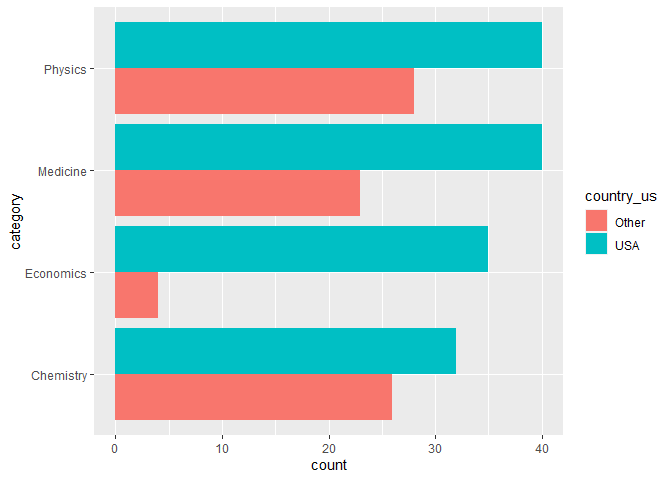
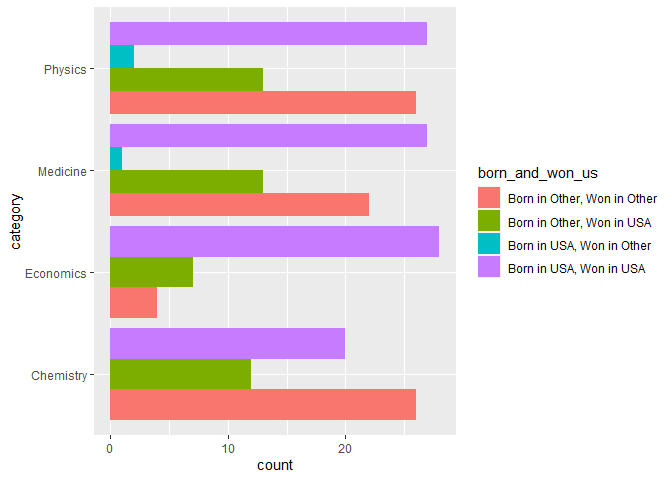
Added answer to Ex 6 and added finishing touches

diff --git a/lab-03.md b/lab-03.md
@@ -121,8 +121,8 @@ geom_bar(stat="count", position=position_dodge()) +
 ![](lab-03_files/figure-gfm/barplot-1.png)<!-- -->
 
 Winners of science prizes were much more likely to be in the US than
-other countries, so I would say that Buzzfeed’s article headline is
-seems accurate.
+other countries, so I would say that Buzzfeed’s article headline seems
+accurate.
 
 ### Exercise 4
 
@@ -149,13 +149,58 @@ were born in the US.
 ### Exercise 5
 
 ``` r
-ggplot(data=nobel_living_science, aes(x=category, fill=country_us)) +
-geom_bar(stat="count", position=position_dodge()) +
+nobel_living_science <- nobel_living_science %>%  
+  mutate(
+    born_and_won_us = case_when(born_country_us == "Other" & country_us == "Other" ~ "Born in Other, Won in Other", #condition 1
+                         born_country_us == "Other" & country_us == "USA" ~ "Born in Other, Won in USA", #condition 2
+                         born_country_us == "USA" & country_us == "Other" ~ "Born in USA, Won in Other", #condition 3
+                         born_country_us == "USA" & country_us == "USA" ~ "Born in USA, Won in USA")) #condition4
+
+nobel_living_science %>%
+  count(born_and_won_us)
+```
+
+    ## # A tibble: 4 x 2
+    ##   born_and_won_us                 n
+    ## * <chr>                       <int>
+    ## 1 Born in Other, Won in Other    78
+    ## 2 Born in Other, Won in USA      45
+    ## 3 Born in USA, Won in Other       3
+    ## 4 Born in USA, Won in USA       102
+
+``` r
+ggplot(data=nobel_living_science, aes(x=category, group=born_and_won_us, fill=born_and_won_us)) +
+geom_bar(stat="count", position="dodge") +
   coord_flip()
 ```
 
-![](lab-03_files/figure-gfm/barplot2-1.png)<!-- -->
+![](lab-03_files/figure-gfm/barplot2-1.png)<!-- --> Buzzfeed’s claim
+definitely seems accurate based on this visualization because there are
+many people born in other countries who immigrated to the USA and won
+the nobel prize, thus contributing to American science.
 
 ### Exercise 6
 
-…
+``` r
+nobel_living_science %>% 
+  filter(born_and_won_us=="Born in Other, Won in USA") %>%
+  count(born_country, sort=TRUE)
+```
+
+    ## # A tibble: 21 x 2
+    ##    born_country       n
+    ##    <chr>          <int>
+    ##  1 Germany            7
+    ##  2 United Kingdom     7
+    ##  3 China              5
+    ##  4 Canada             4
+    ##  5 Japan              3
+    ##  6 Australia          2
+    ##  7 Israel             2
+    ##  8 Norway             2
+    ##  9 Austria            1
+    ## 10 Finland            1
+    ## # ... with 11 more rows
+
+Both Germany and the UK are the most common countries to have laureates
+who were born in those countries, but won the prize in the US.
